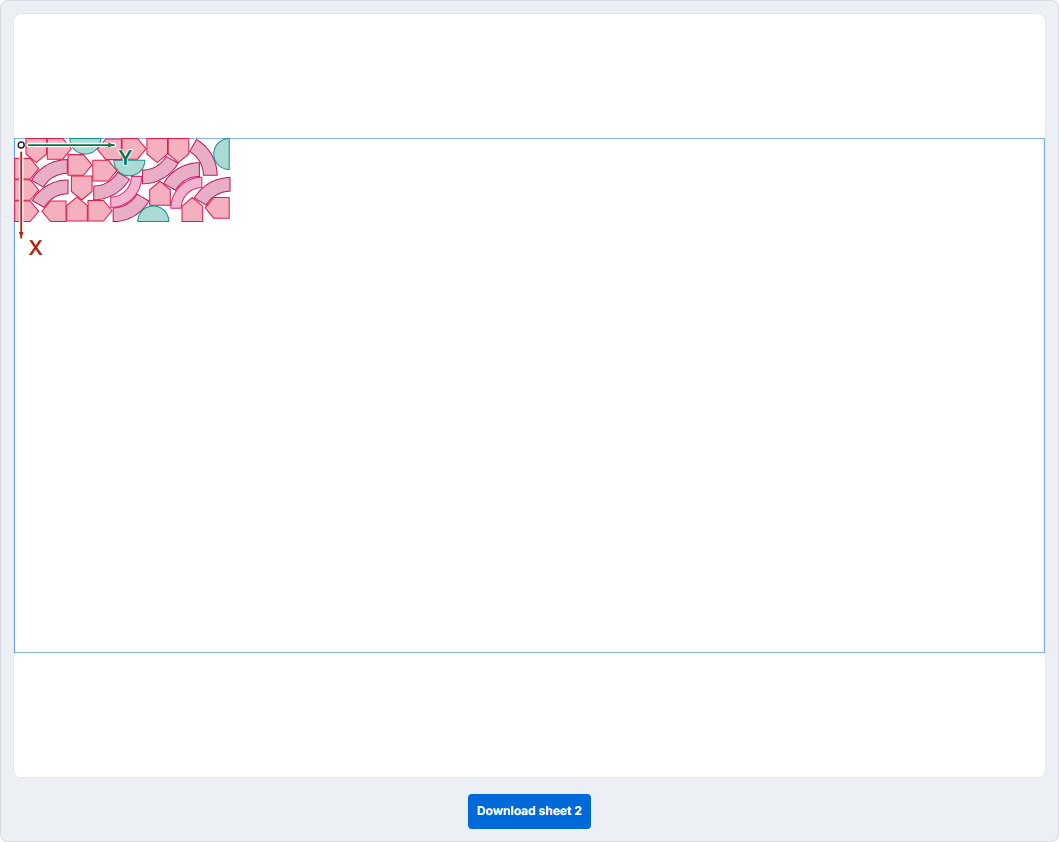
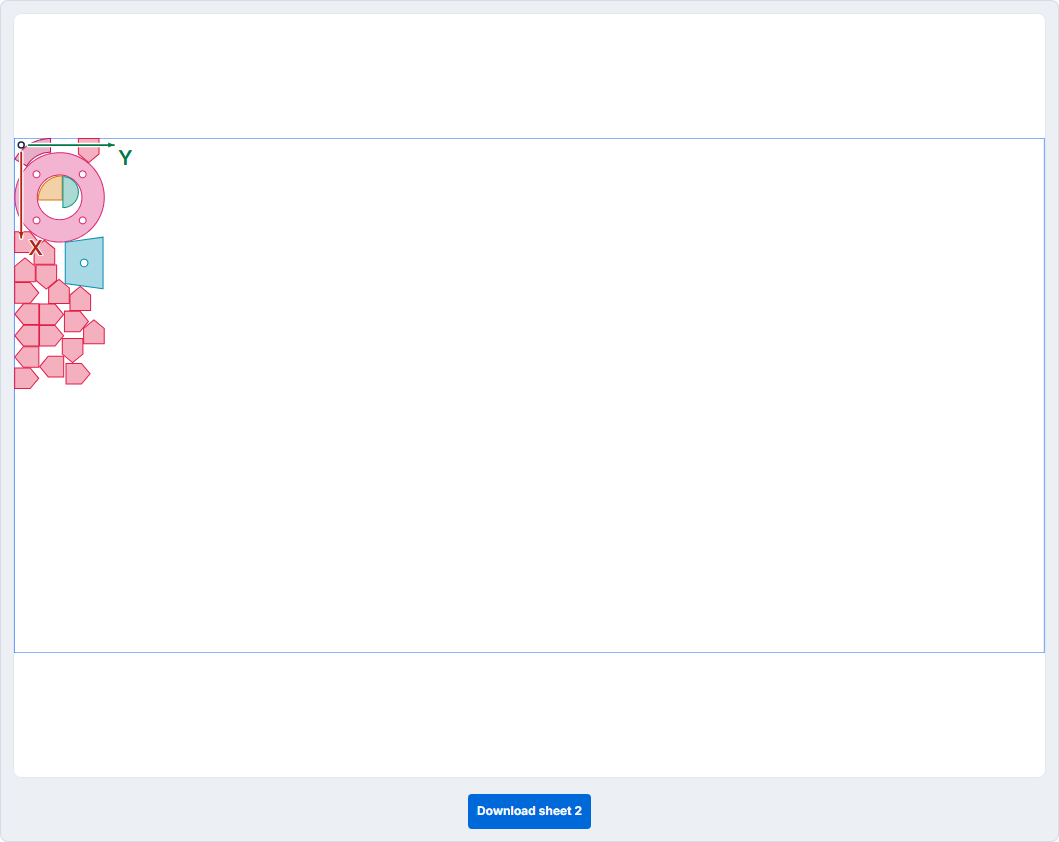
docs(moteur): rapport §9 de la tranche 1-bis + planche L5 refaite
Le temps navigateur passe de +33 s à +9 s (une seule finition par job, pas
huit) ; le harnais tient ses deux configurations à +9 et +6 s pour un
plafond de +16, avec la tôle partielle à 347,7 mm (verrou ≤ 349,1).

La table des phases dit ce que le plafond paie, et elle ne dit pas la même
chose selon le job : sur le harnais la phase 1 mange 15,5 s des 15,7 et la
phase 2 reçoit 140 ms ; sur la démo le partage est inverse et `bottom`
s'arrête de lui-même à 4,7 s. Aucune valeur de plafond proposée — c'était
l'objet de la tranche.

La garde de faisabilité a servi deux fois, au plafond de 15 s : le 1,849 mm
n'était donc pas un effet du budget de 7 s. Compteur `infeasible` : 2 sur 18
exécutions de direction, les DEUX sur `balanced`. Inscrit au registre avec
sa trace.

Claude-Session: https://claude.ai/code/session_01WheuJKexoXAxaPvrbCeaKz

Changed region(s): [[0.0, 0.1544, 0.2181, 0.4632]]

diff --git a/docs/PLAN-DERNIERE-TOLE-2026-09-09.md b/docs/PLAN-DERNIERE-TOLE-2026-09-09.md
@@ -499,3 +499,117 @@ déploiement complet worker + app + wasm + homelab.
 x_max **493,3 → 435,2** (`kept=spp`, 16,4 s), ancrée à 2,0 / 2,0 ; tôle 1
 inchangée [2 ; 988]. La finition tient donc aussi dans la configuration
 à 2 mm ; le coût de 16 s par finition est confirmé.
+
+## 9. Rapport tranche 1-bis (implémenteur, 10/09)
+
+Commits : `b0751eb` (les cinq points + ménage), `fc51a0c4` (garde de
+faisabilité affinée), `d1b201a2` (documents du vérificateur). **Non
+déployé.** Image worker et app reconstruites, `ASSERT IMAGES=HEAD: OK`.
+
+### 9.1 Le temps, qui était le motif du NO-GO
+
+| Mesure | Référence (avant) | Tranche 1-bis | Verrou |
+|---|---|---|---|
+| Harnais navigateur, espacement 0,1 (×3) | 21,3 / 21,4 / 21,4 s | **30,4 / 30,3 / 30,4 s** — **+9 s** | ≤ +16 s ✅ |
+| Harnais navigateur, espacement 2 (×3) | 24,4 s (1 passage) | **30,4 / 30,4 / 30,4 s** — **+6 s** | ≤ +16 s ✅ |
+| Banc serveur, temps de job (×3) | 20-25 s | **40 / 35 / 40 s** | (pas de verrou 1-bis) |
+| Démo navigateur, `left` / `bottom` / `balanced` | 148 / 191 / 191 s (09/09) | **74 / 65 / 102 s** | — |
+
+Le navigateur passe donc de **+33 s à +9 s** : une seule finition par job au
+lieu de huit. Le compte se lit directement dans le record — **un seul objet
+`finish`** par job dans les six passages du harnais, et le pool n'émet
+**qu'un seul** événement `bpp-finish` (verrouillé par `localPool.test.js`,
+qui compte l'événement et les frames séparément).
+
+Qualité inchangée là où elle compte : tôle partielle du harnais
+**x_max 347,7 / 347,5 / 347,8** à 0,1 (verrou ≤ 349,1) et
+**437,4 / 437,4 / 437,0** à 2 (verrou < 517,7 ; le vérificateur mesurait
+435,2 sur son poste).
+
+### 9.2 La table des phases — ce que le plafond paie réellement
+
+Elle ne dit pas la même chose selon le job, et c'est le résultat :
+
+| Job | p1 (largeur) | p2 (compaction transposée) | améliorations p1 / p2 | arrêt |
+|---|---|---|---|---|
+| Harnais 0,1 (×3) | **15,5 s** | **0,14 s** | 14-15 / 1 | budget |
+| Harnais 2 (×3) | **15,3 s** | **0,19 s** | 16 / 1 | budget |
+| Démo `left` | 2,2 s | **13,2 s** | 2 / 10 | budget |
+| Démo `bottom` | 2,2 s | 2,6 s (**4,7 s au total**) | 2 / 2 | **plateau** |
+| Démo `balanced` | 6,1 s | 7,5 s | 3 / 5 | plateau |
+
+Sur le harnais (900 pièces, une seule direction) **la phase 1 mange tout le
+plafond et la phase 2 reçoit 140 à 190 ms** — la compaction transposée n'a
+pas lieu. Sur la démo (304 pièces, 24 formes) le partage est inverse, et
+`bottom` s'arrête de lui-même à 4,7 s. Un plafond unique ne convient donc pas
+aux deux ; je ne propose pas de valeur, c'était l'objet de la tranche.
+
+### 9.3 La garde de faisabilité a servi deux fois — et ce n'est pas le budget
+
+Elle a d'abord révélé un **faux positif de ma première version** : sur
+`b_demo`, `left` sortait `kept=bpp / infeasible` alors que le défaut n'était
+pas une paire mais un **contact avec le contour** de la tôle (la carte de
+collision déflate le conteneur de space/2, piège #49, et la phase 2
+transposée rend des coordonnées à ~1e-4 du bord). `infeasibility_of` dit
+maintenant laquelle des deux causes s'applique : **seul « pair » rejette**,
+« sheet » est noté dans la trace (`reason: "sheet-contact"`, `kept` reste
+`spp`). Le containment réel reste contrôlé sur les anneaux BRUTS (±1e-3) et
+remesuré par `insideSheet` en aval.
+
+Puis elle a attrapé **deux vraies violations de paire**, avec le plafond de
+15 s — donc **le 1,849 mm n'était pas un effet du budget de 7 s** :
+
+| Occurrence | Job | Direction | Effet |
+|---|---|---|---|
+| 1 | banc serveur, passage 3 | `balanced` | `kept=bpp`, `reason="infeasible: pair"` — layout moteur conservé, badges verts |
+| 2 | démo navigateur | `balanced` | idem |
+
+**Compteur `kept=bpp reason=infeasible` : 2 sur 18 exécutions de direction**
+(L3 ×3 = 9, L4 ×6, L5 ×3). Le plan tolère « ≤ 1 sur 12 » : nous sommes au
+même taux, au-dessus en valeur absolue. **Les deux occurrences sont sur
+`balanced`** — c'est le chemin que j'ai construit en corridor de hauteur
+(§7 écart 2), avec gravité et `column_fill` dans un corridor serré : le
+suspect désigné est là, pas dans le budget. Sans la garde, ces deux tôles
+partaient telles quelles (c'est ce qui s'est passé le 09/09 à 7 s).
+
+Verrou dédié : `finish_rejects_infeasible_strip` — deux carrés à 2,5 mm
+acceptés, à 1,8 mm rejetés, à 10 mm des bords pour isoler la distance entre
+pièces du contact au contour.
+
+### 9.4 Verrous rejoués
+
+| Verrou | Résultat |
+|---|---|
+| **L1** `lock_last_sheet.py` | **tenu** — `kept=spp` ×3 (`left` avec `sheet-contact` noté), ancrage 2,0 mm, left x_max minimal, bottom y_max minimal, balanced max(x/W, y/H) minimal |
+| **L2** `determinism_lock.py` | **natif ≡ wasm**, tolérance 0, SHA `04944ada…` — **la MÊME valeur qu'avant la tranche** : ni la garde, ni le drapeau, ni le collecteur ne changent la géométrie livrée |
+| **L3** `seed_demo_dirs.py BENCH_ASSERT=1` ×3 | **2 passages sur 3** — le troisième tombe sur le rejet `balanced` ci-dessus (badges verts, 304/304, 2 tôles) |
+| **L4** harnais ×3 en 0,1 et ×3 en 2 | **tenu** (temps, x_max, 900/900, long task après solve 0-59 ms) |
+| **L5** démo ×3 directions | `kept=spp` sur `left` (x 113,0 — identique à la planche du 09/09) et `bottom` (y 153,0) ; `balanced` rejeté. Captures refaites |
+| cargo `nest-engine` | **80** + 1 ignoré (nouveau : `finish_rejects_infeasible_strip`) |
+| vitest | **514** |
+| pytest nesting | **220** + 2 skipped (−1 : le test de `_compact_receivers`) |
+
+### 9.5 Écarts et non-faits
+
+1. **Point 2 du §8.3 appliqué AVANT `merge_bp_runs`, pas après.** Finir les
+   alternatives déjà construites obligerait à reconstruire le JSON de sortie.
+   Je sélectionne les champions avec la règle EXACTE de `merge_bp_runs`
+   (coût lexicographique, seed en tie-break, faisables d'abord) puis je
+   finis, puis je fusionne — c'est ce que fait le chemin natif, donc « même
+   fonction, même résultat » comme demandé. `finish_exported_runs` est la
+   fonction unique appelée des deux côtés.
+2. **Verrou L5 « mêmes x/y max ± 5 mm à seed égale » non vérifiable** : la
+   démo navigateur tire un master seed neuf à chaque job, les seeds ne sont
+   pas égales d'un passage à l'autre. `left` retombe exactement sur 113,0,
+   `bottom` sort à 153,0 contre 124,1 le 09/09 — écart de tirage, pas de
+   régression (badges verts, forme conforme).
+3. **Compteur d'infaisabilité au-dessus de la tolérance** (2/18 contre
+   « ≤ 1 sur 12 ») — inscrit ici avec sa trace, comme demandé. Je n'ai pas
+   cherché la cause dans le SPP : la tranche interdit toute décision de
+   plafond et la garde contient le défaut.
+4. **`.testparts/` est passé au `.gitignore`.** AGENTS.md le décrit comme
+   ignoré ; il ne l'était pas. Le corpus d'import (phase C) y a déposé
+   18 Mio, dont des fichiers LibreDWG en GPL v3 : un `git add -A` les
+   publiait.
+5. **Non-fait** : `verify_l4a_corpus.sh` 11/11 et la régénération des
+   benchmarks publics — étape de déploiement, elle attend le GO.
